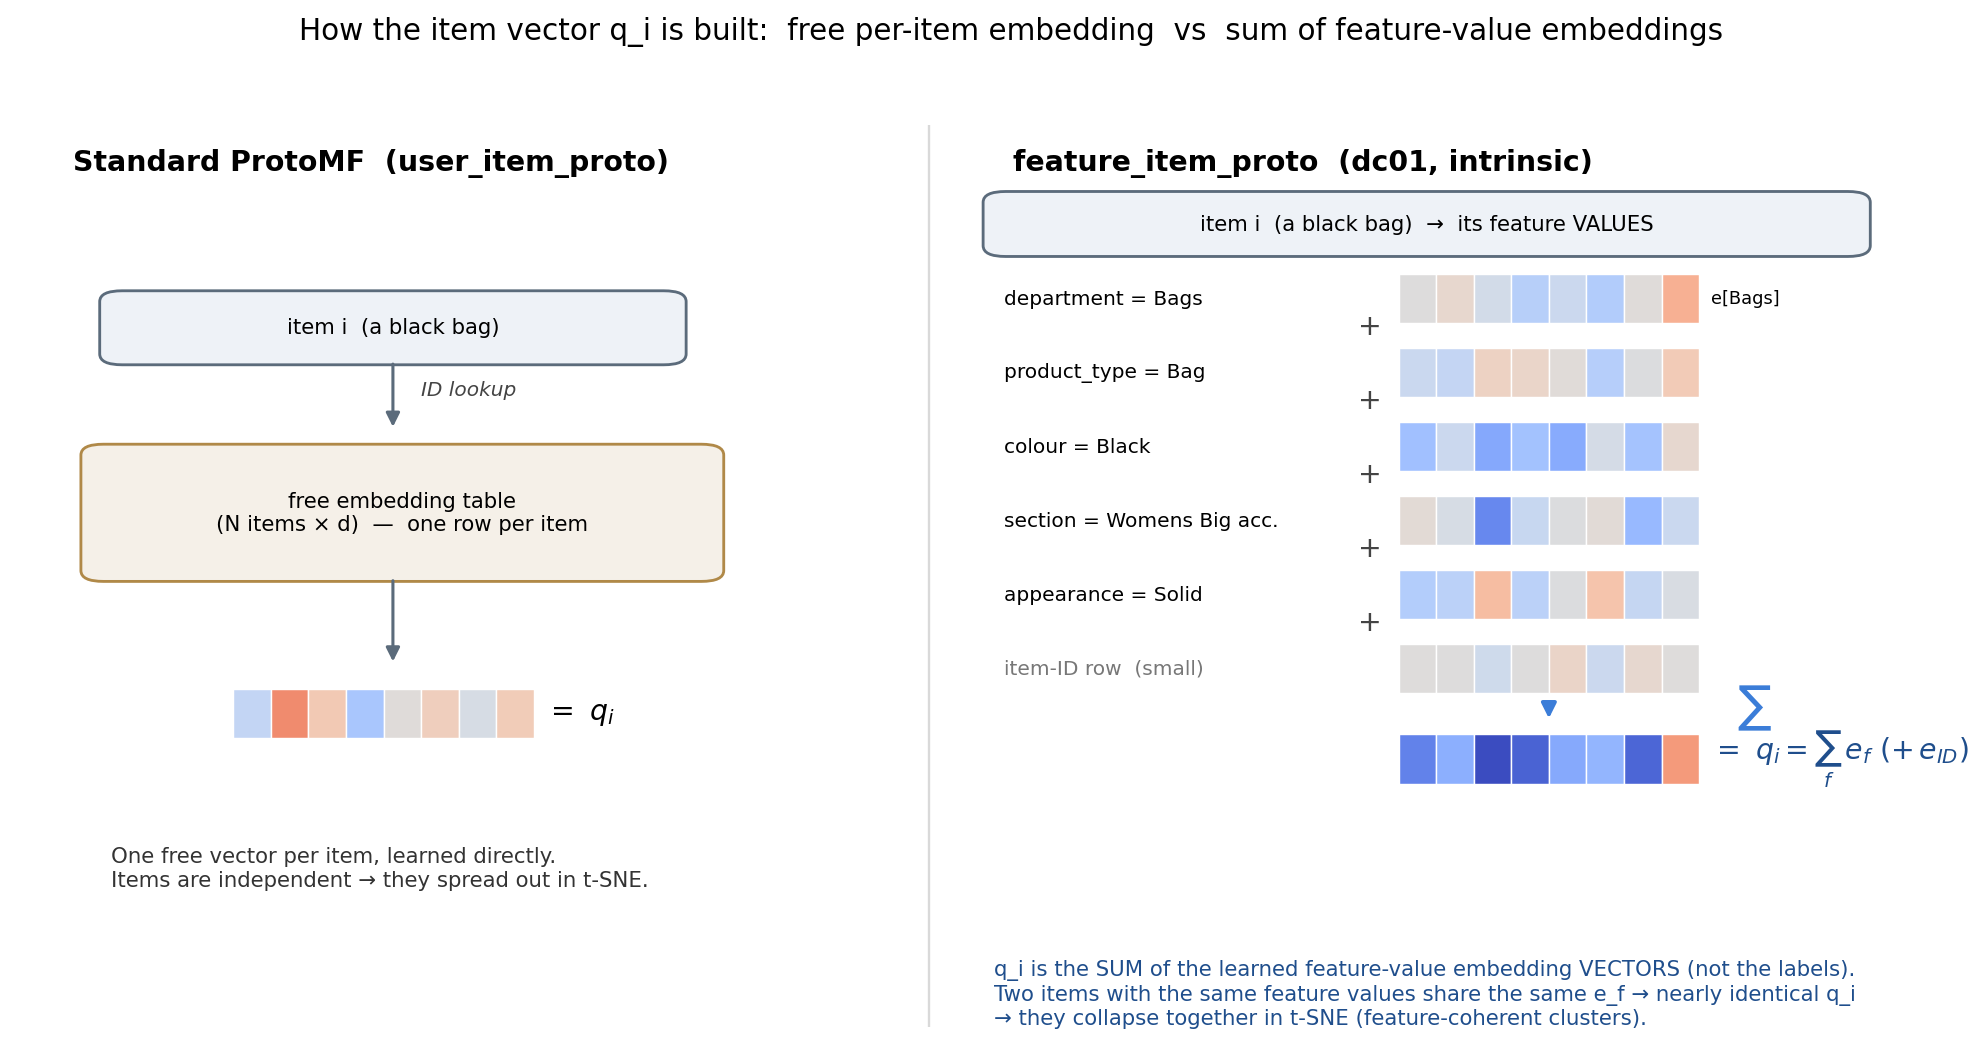
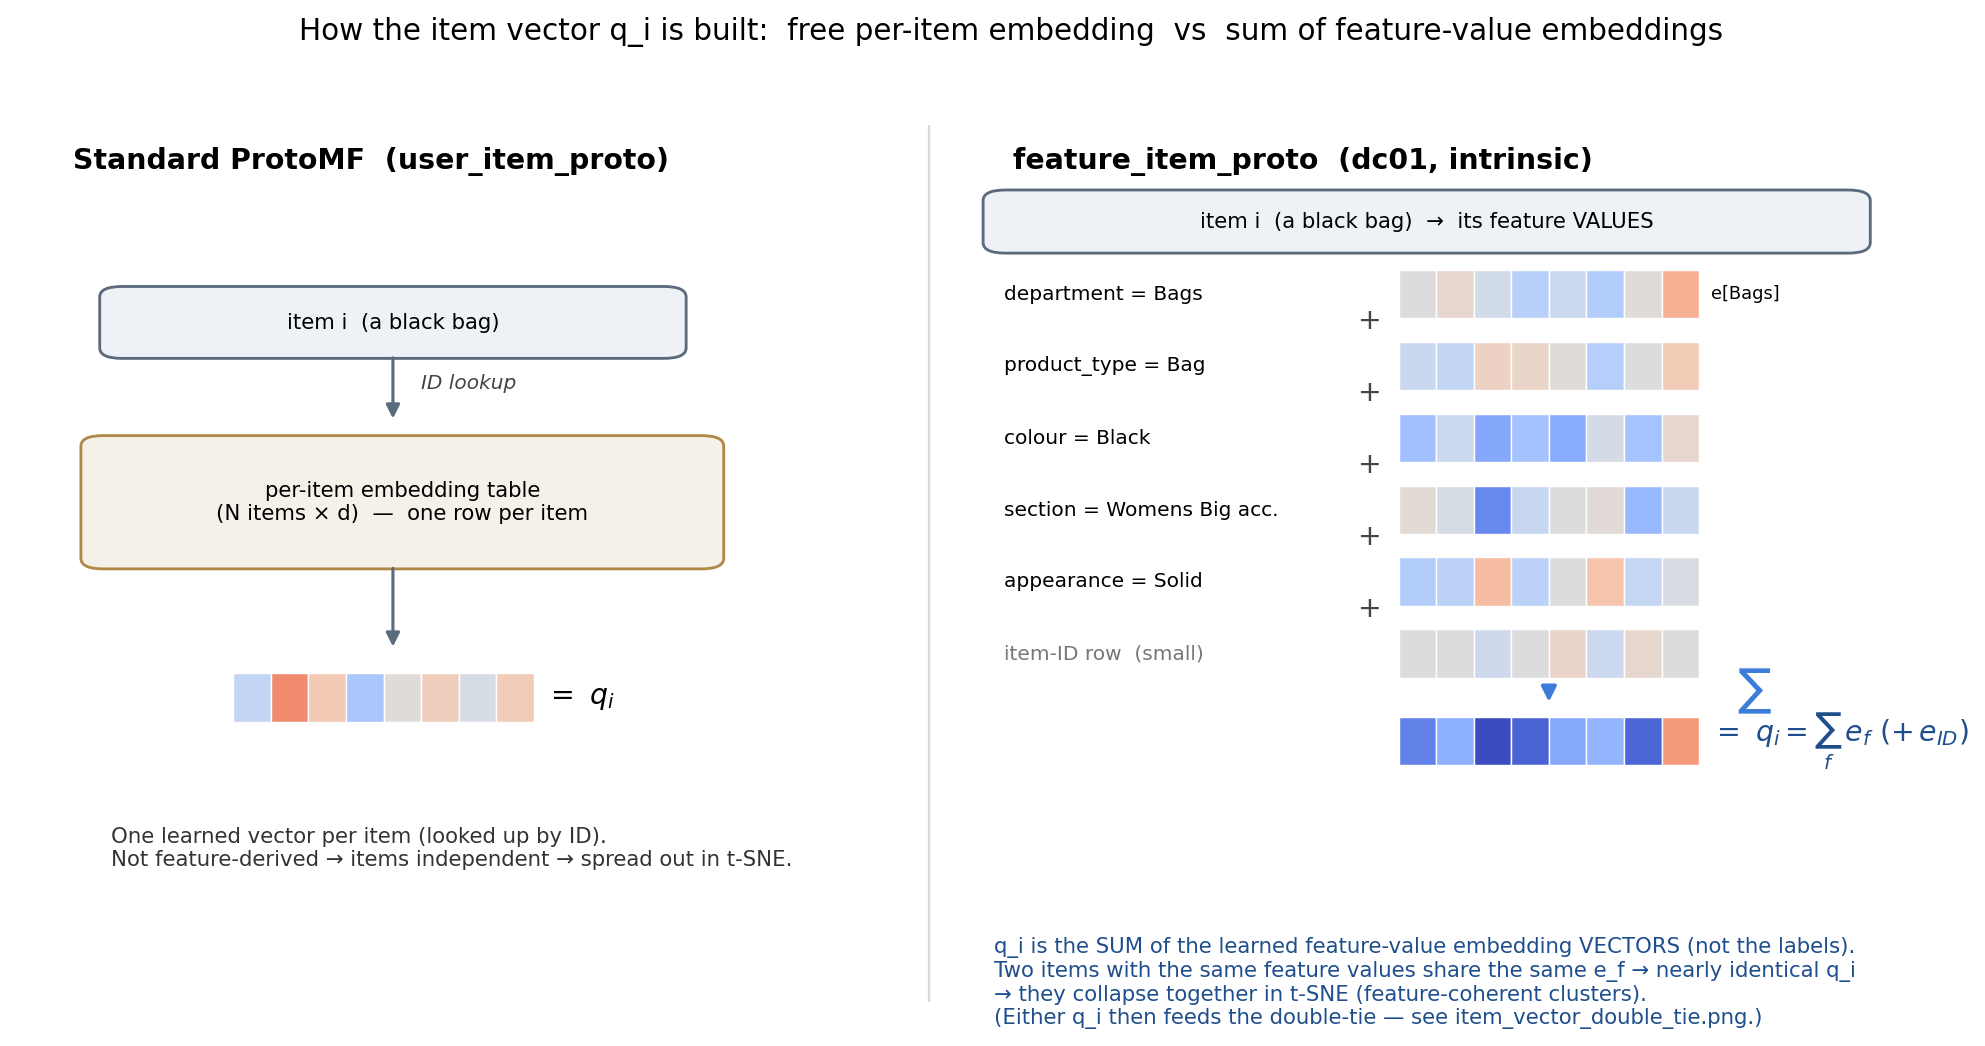
docs(dc01): double-tie diagram + de-"free" the composition diagram
item_vector_double_tie.png: the SAME item factor q_i feeds BOTH score halves —
t* = sim(q_i, P^t) (own item-prototype similarity) and t̂ = W^t q_i (projection into
user-prototype space) — so the base vector is per-item learned but not single-purpose.
dc01 changes only how q_i is built; the tie + both roles are unchanged.

Also corrected the composition diagram's "free embedding" wording (→ per-item learned,
looked up by ID) and cross-referenced the double-tie figure.

diff --git a/Master/temp/dc_checks/dc01/make_doubletie_diagram.py b/Master/temp/dc_checks/dc01/make_doubletie_diagram.py
@@ -1,0 +1,82 @@
+"""Schematic: the item factor q_i under the DOUBLE-TIED prototype layer (UI-ProtoMF), and the
+single thing dc01 changes (how q_i is obtained: free per-item row -> sum of feature embeddings).
+
+Corrects the earlier 'free embedding' framing: the base vector is per-item learned but NOT
+single-purpose — the same q_i feeds both halves of the score (t* = sim to item-prototypes, and
+t̂ = W^t q_i projected into user-prototype space). dc01 leaves the tie + both roles untouched.
+Pure illustration. Run: python make_doubletie_diagram.py
+"""
+import matplotlib
+matplotlib.use("Agg")
+import matplotlib.pyplot as plt
+from matplotlib.patches import FancyArrowPatch, FancyBboxPatch
+
+fig, ax = plt.subplots(figsize=(12, 7))
+ax.set_xlim(0, 1); ax.set_ylim(0, 1); ax.axis("off")
+BLUE, GREY, ORANGE = "#1f4e8c", "#5b6b7b", "#b08948"
+
+
+def box(x, y, w, h, text, fc="#eef2f7", ec=GREY, fs=10, weight="normal", tc="black"):
+    ax.add_patch(FancyBboxPatch((x, y), w, h, boxstyle="round,pad=0.006,rounding_size=0.012",
+                                facecolor=fc, edgecolor=ec, lw=1.4))
+    ax.text(x + w / 2, y + h / 2, text, ha="center", va="center", fontsize=fs,
+            fontweight=weight, color=tc)
+
+
+def arr(x0, y0, x1, y1, color=GREY, lw=1.6, label=None, lx=0, ly=0, fs=9, ls="-"):
+    ax.add_patch(FancyArrowPatch((x0, y0), (x1, y1), arrowstyle="-|>", mutation_scale=14,
+                                 color=color, lw=lw, linestyle=ls))
+    if label:
+        ax.text((x0 + x1) / 2 + lx, (y0 + y1) / 2 + ly, label, fontsize=fs, color=color,
+                ha="center", va="center", fontweight="bold")
+
+
+# --- base embeddings (top) ---
+box(0.16, 0.83, 0.20, 0.09, "user base  u", fc="#eaf0e6", ec="#5a7d3a")
+box(0.64, 0.83, 0.20, 0.09, "item base  q$_i$", fc="#dde9f7", ec=BLUE, fs=11, weight="bold")
+ax.text(0.74, 0.785, "= free per-item row  (user_item_proto)\n"
+                     "   or  Σ$_f$ e$_f$  (feature_item_proto, dc01)",
+        ha="center", va="top", fontsize=8.5, color=BLUE, style="italic")
+
+# --- two prototype spaces (mid) ---
+box(0.04, 0.40, 0.42, 0.20, "", fc="#fbf7f0", ec=ORANGE)
+ax.text(0.25, 0.575, "USER-prototype space  (R$^{K_u}$)", ha="center", fontsize=10,
+        color=ORANGE, fontweight="bold")
+box(0.10, 0.46, 0.13, 0.07, "u*", fc="#eaf0e6", ec="#5a7d3a", fs=11, weight="bold")
+box(0.27, 0.46, 0.13, 0.07, "t̂", fc="#dde9f7", ec=BLUE, fs=11, weight="bold")
+ax.text(0.25, 0.435, r"$s_{user} = u^* \cdot \hat{t}$", ha="center", fontsize=9.5)
+
+box(0.54, 0.40, 0.42, 0.20, "", fc="#fbf7f0", ec=ORANGE)
+ax.text(0.75, 0.575, "ITEM-prototype space  (R$^{K_t}$)", ha="center", fontsize=10,
+        color=ORANGE, fontweight="bold")
+box(0.60, 0.46, 0.13, 0.07, "û", fc="#eaf0e6", ec="#5a7d3a", fs=11, weight="bold")
+box(0.77, 0.46, 0.13, 0.07, "t*", fc="#dde9f7", ec=BLUE, fs=11, weight="bold")
+ax.text(0.75, 0.435, r"$s_{item} = \hat{u} \cdot t^*$", ha="center", fontsize=9.5)
+
+# --- arrows: each base feeds BOTH spaces (the double tie) ---
+# user u -> u* (cosine, same space)   and  -> û (W^u, into item space)
+arr(0.24, 0.83, 0.17, 0.53, color="#5a7d3a", label="cos vs P$^u$", lx=-0.055, ly=0.02, fs=8)
+arr(0.28, 0.83, 0.65, 0.53, color="#5a7d3a", label="W$^u$", lx=0.0, ly=0.06, fs=9)
+# item q_i -> t* (cosine, same space)  and  -> t̂ (W^t, into user space)  [highlighted: the tie]
+arr(0.76, 0.83, 0.835, 0.53, color=BLUE, lw=2.4, label="cos vs P$^t$", lx=0.055, ly=0.02, fs=8)
+arr(0.72, 0.83, 0.335, 0.53, color=BLUE, lw=2.4, label="W$^t$", lx=0.0, ly=0.08, fs=9)
+
+# --- score (bottom) ---
+box(0.32, 0.13, 0.36, 0.10, r"score(u,i) = $u^*\!\cdot\hat{t}\ +\ \hat{u}\cdot t^*$",
+    fc="#f0eef7", ec="#5b4b8a", fs=12, weight="bold")
+arr(0.25, 0.40, 0.42, 0.23, color="#5b4b8a")
+arr(0.75, 0.40, 0.58, 0.23, color="#5b4b8a")
+
+ax.text(0.5, 0.965,
+        "The item factor q$_i$ under the double-tied prototype layer (UI-ProtoMF)",
+        ha="center", fontsize=13, fontweight="bold")
+ax.text(0.5, 0.045,
+        "The SAME q$_i$ feeds BOTH halves: its own item-prototype similarity (t*) AND its projection "
+        "into user-prototype space (t̂).  dc01 changes only how q$_i$ is built (free row → Σ$_f$ e$_f$); "
+        "the tie and both roles are unchanged, and feature embeddings get gradient from both halves.",
+        ha="center", va="center", fontsize=9, color=BLUE,
+        bbox=dict(boxstyle="round,pad=0.4", fc="#f4f8ff", ec=BLUE, lw=0.8))
+
+out = "Master/temp/dc_checks/dc01/figures/item_vector_double_tie.png"
+fig.savefig(out, dpi=170, bbox_inches="tight")
+print(f"wrote {out}")

diff --git a/Master/temp/dc_checks/dc01/make_composition_diagram.py b/Master/temp/dc_checks/dc01/make_composition_diagram.py
@@ -56,12 +56,12 @@ box(ax, 0.05, 0.74, 0.30, 0.07, "item i  (a black bag)")
 arrow(ax, 0.20, 0.74, 0.20, 0.66)
 ax.text(0.215, 0.70, "ID lookup", fontsize=8.5, style="italic", color="#444")
 box(ax, 0.04, 0.50, 0.33, 0.14,
-    "free embedding table\n(N items × d)  —  one row per item", fc="#f5f0e8", ec="#b08948", fs=9)
+    "per-item embedding table\n(N items × d)  —  one row per item", fc="#f5f0e8", ec="#b08948", fs=9)
 arrow(ax, 0.20, 0.50, 0.20, 0.40)
 strip(ax, 0.115, 0.32, cf_vec)
 ax.text(0.115 + D * CW + 0.006, 0.32 + CH / 2, r"$=\ q_i$", va="center", fontsize=12, fontweight="bold")
-ax.text(0.05, 0.20, "One free vector per item, learned directly.\n"
-                    "Items are independent → they spread out in t-SNE.",
+ax.text(0.05, 0.20, "One learned vector per item (looked up by ID).\n"
+                    "Not feature-derived → items independent → spread out in t-SNE.",
         fontsize=9, color="#333", va="top")
 
 # ---------------- RIGHT: feature_item_proto (sum of feature-value embeddings) ----------------
@@ -93,7 +93,8 @@ ax.text(x0 + 0.215 + D * CW + 0.006, y_sum + CH / 2, r"$=\ q_i = \sum_{f}\, e_f\
 
 ax.text(x0, 0.075, "q_i is the SUM of the learned feature-value embedding VECTORS (not the labels).\n"
                    "Two items with the same feature values share the same e_f → nearly identical q_i\n"
-                   "→ they collapse together in t-SNE (feature-coherent clusters).",
+                   "→ they collapse together in t-SNE (feature-coherent clusters).\n"
+                   "(Either q_i then feeds the double-tie — see item_vector_double_tie.png.)",
         fontsize=9, color="#1f4e8c", va="top")
 
 fig.suptitle("How the item vector q_i is built:  free per-item embedding  vs  sum of feature-value embeddings",
